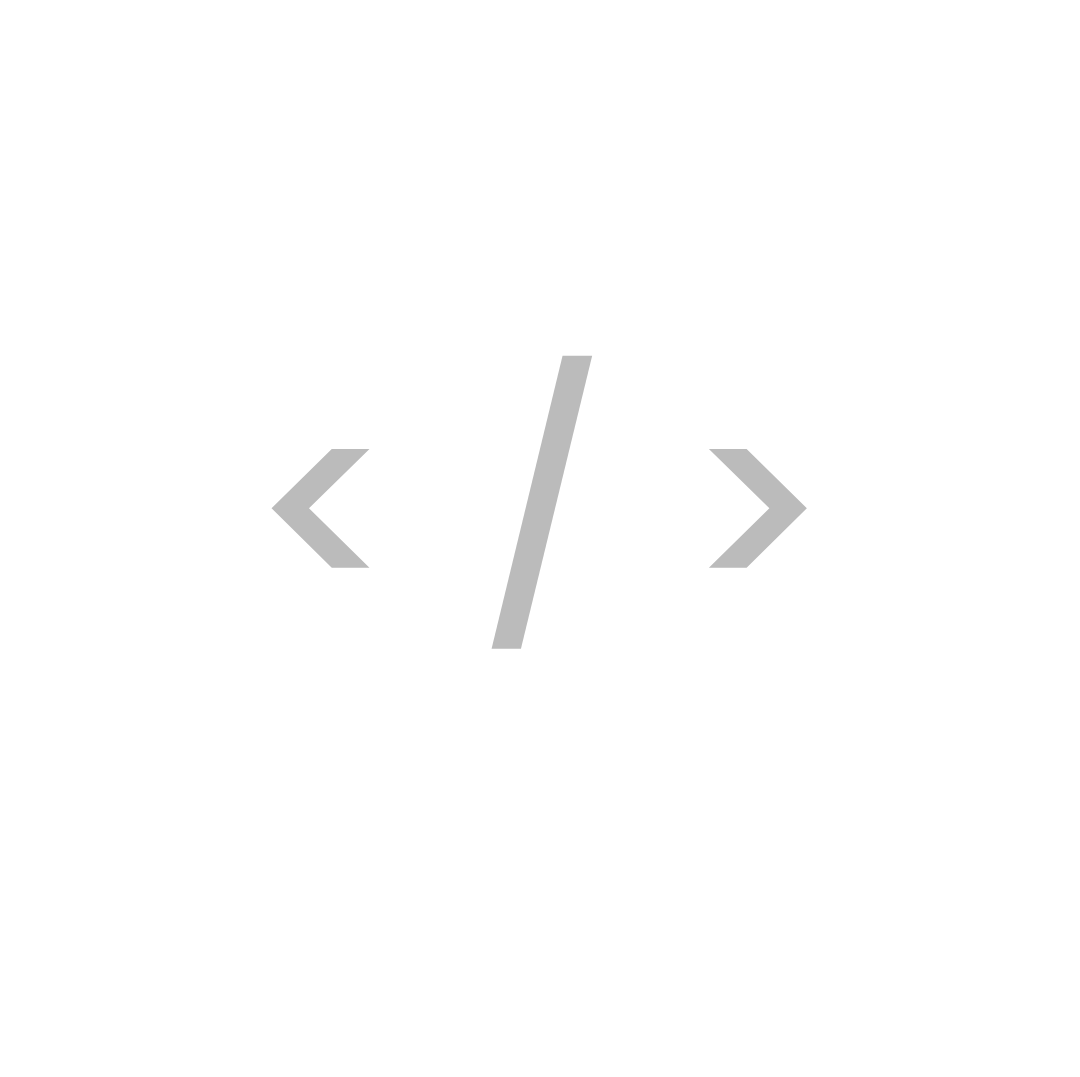
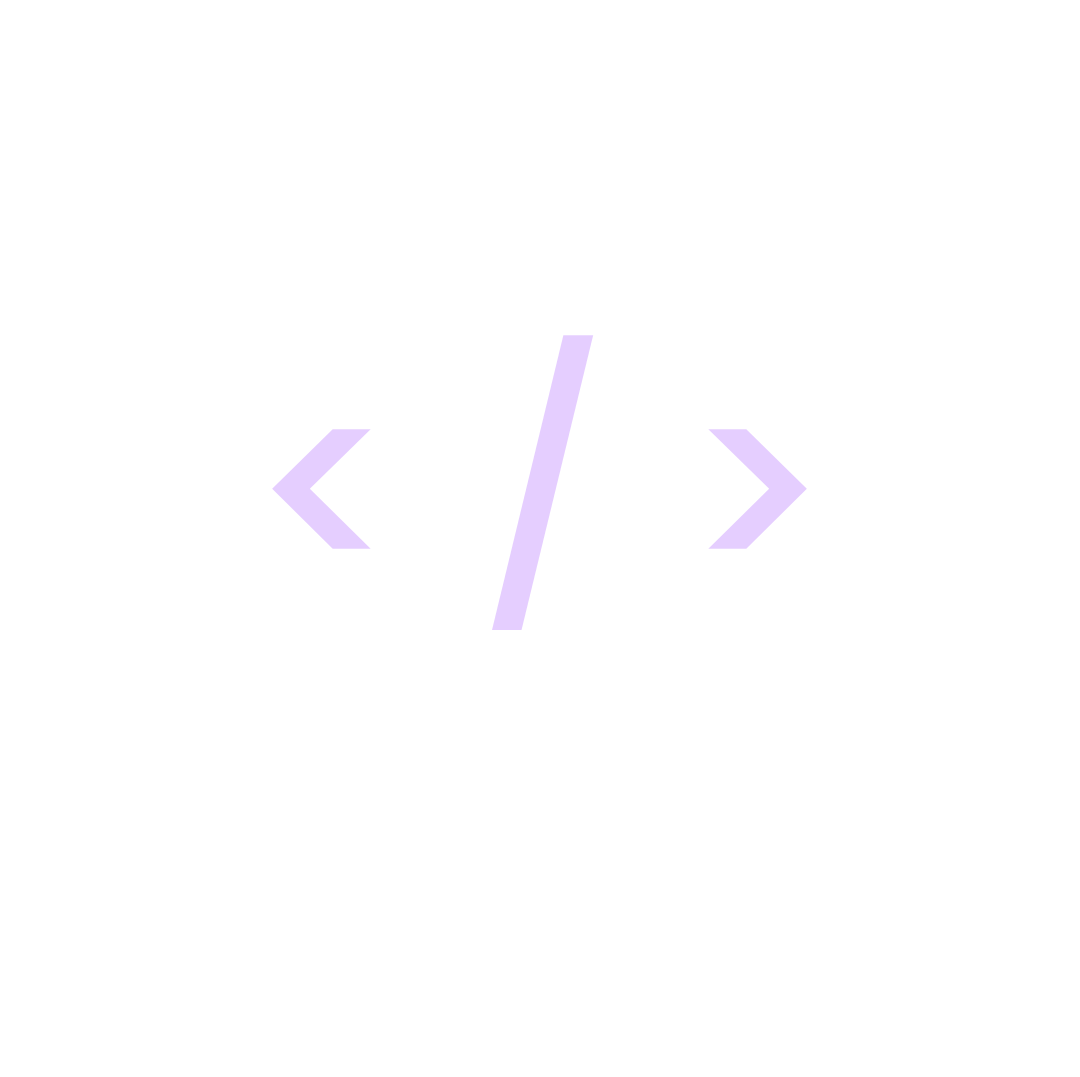
sd

Changed region(s): [[0.4583, 0.3064, 0.55, 0.6128], [0.6417, 0.3983, 0.7639, 0.5515], [0.2444, 0.3983, 0.3361, 0.5515]]

diff --git a/assets/index-6S2SE2QA.css b/assets/index-6S2SE2QA.css
@@ -1,0 +1,1 @@
[1 lines of base64/hex data omitted]

diff --git a/index.html b/index.html
@@ -27,8 +27,8 @@
     place-items: center;
   }
   </style>
-  <script type="module" crossorigin src="/assets/index-7UTOMCu0.js"></script>
-  <link rel="stylesheet" crossorigin href="/assets/index-Mt0lezYE.css">
+  <script type="module" crossorigin src="/assets/index-yQKWZ4I_.js"></script>
+  <link rel="stylesheet" crossorigin href="/assets/index-6S2SE2QA.css">
 </head>
  
 <body class="bg-theme text-slate-800 dark:text-slate-200">
